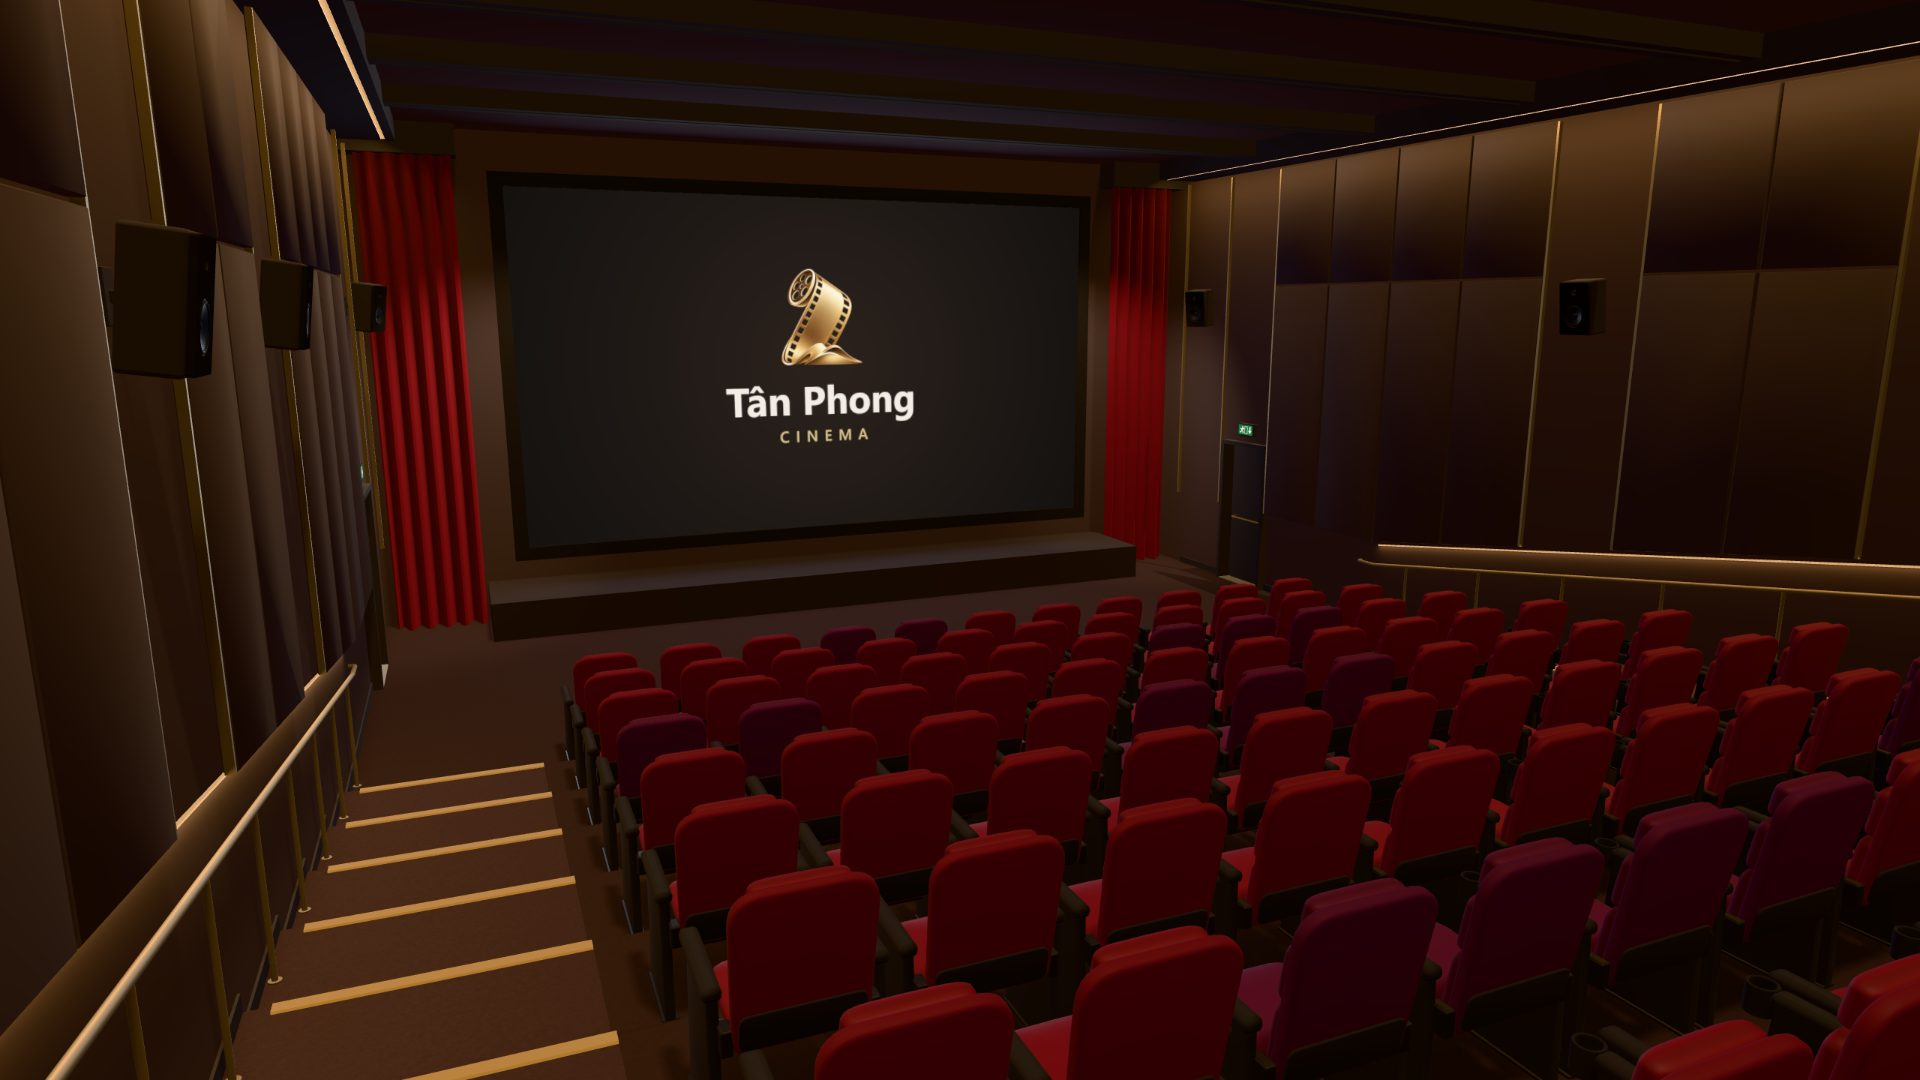
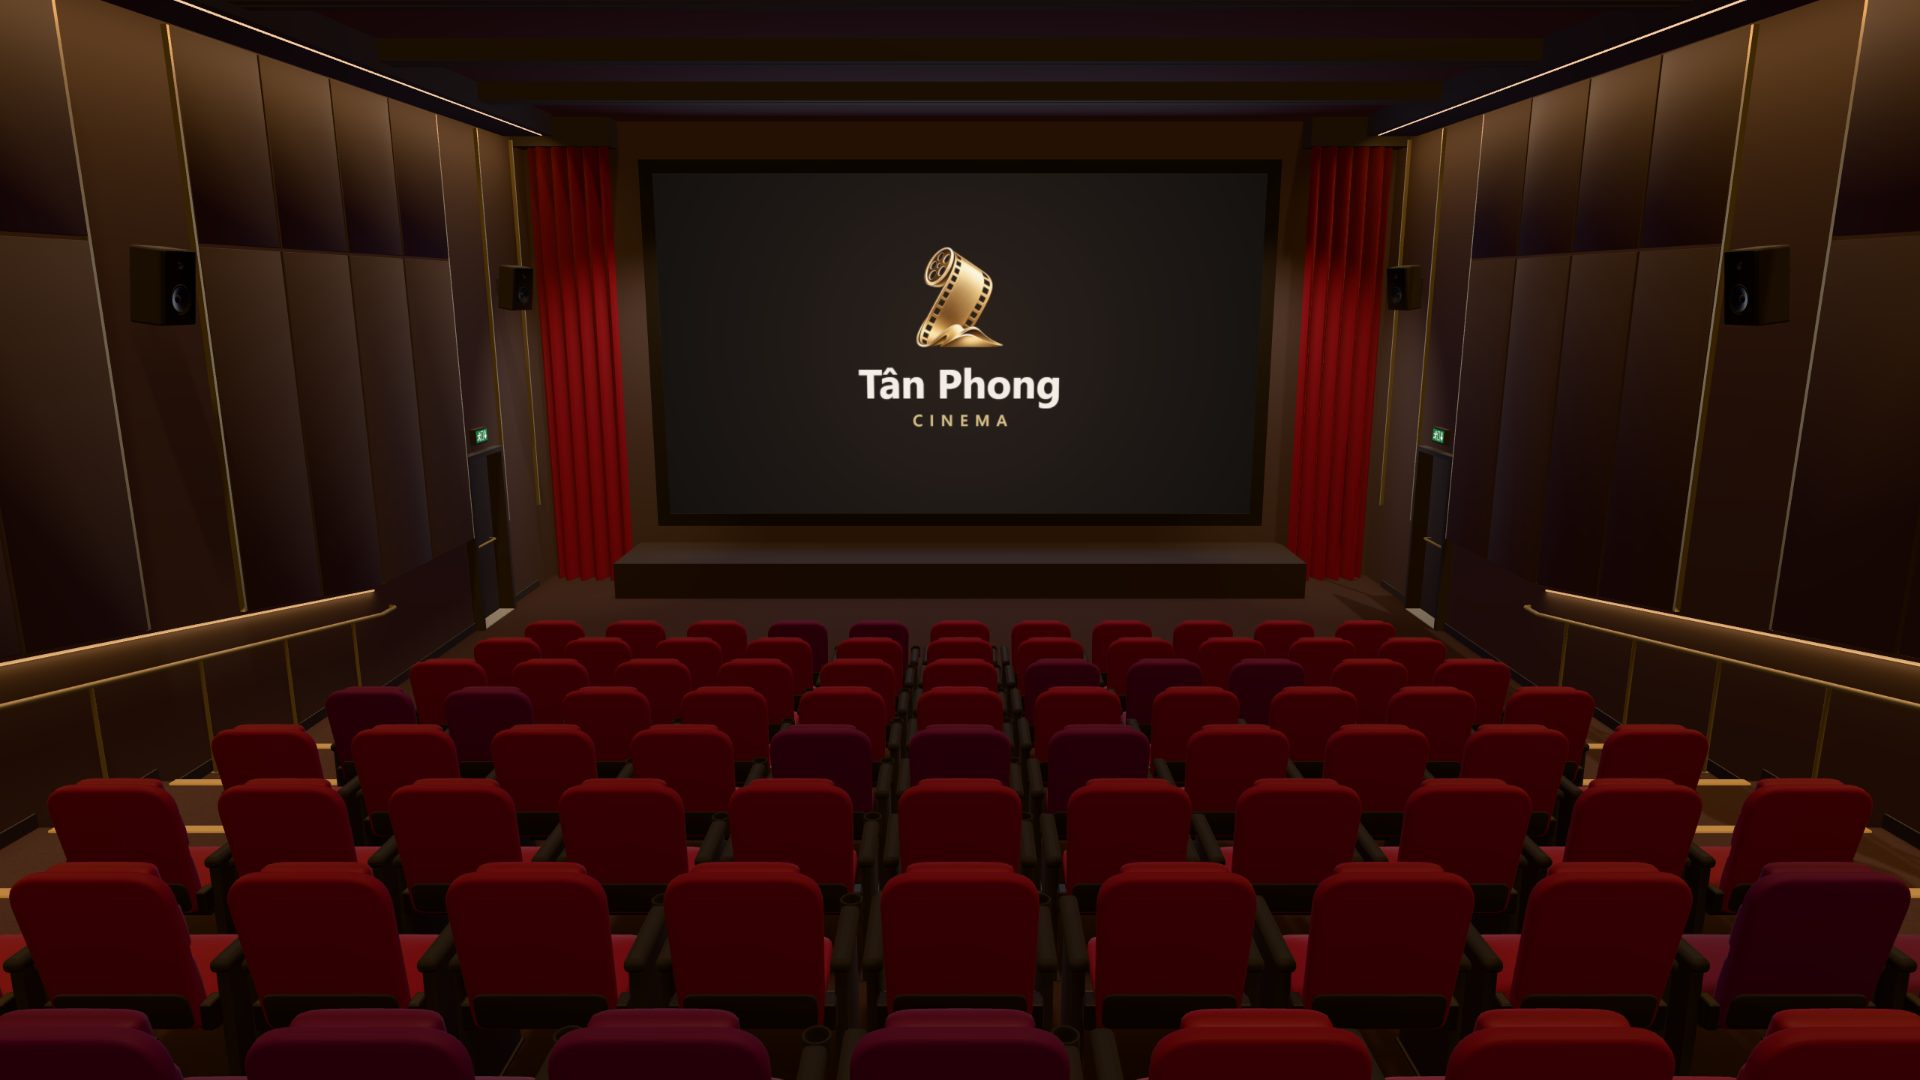
style(landing): the hero looks straight at the screen
The hero render is taken from the back of the room on its centre line,
facing the screen, instead of from the top of the left aisle across the
rows; the portrait one too. Re-rendered with capture-brand-assets.mjs
(portal-hero), and the picture's alt text follows.

diff --git a/src/landing/content.ts b/src/landing/content.ts
@@ -115,7 +115,7 @@ ${wordmarkHtml()}
 <source media="(max-aspect-ratio: 4/5)" type="image/webp" srcset="${srcset('portal-hero-portrait', heroPortrait.widths)}" sizes="100vw">
 <source media="(max-aspect-ratio: 4/5)" type="image/jpeg" srcset="${IMG}/portal-hero-portrait-900.jpg 900w" sizes="100vw">
 <source type="image/webp" srcset="${srcset('portal-hero', hero.widths)}" sizes="100vw">
-<img class="hero__image" src="${IMG}/portal-hero-1920.jpg" width="${hero.width}" height="${hero.height}" alt="Khán phòng nhìn dọc lối đi bên trái: các hàng ghế đỏ dẫn tới màn chiếu mang logo Tân Phong Cinema." fetchpriority="high" decoding="async">
+<img class="hero__image" src="${IMG}/portal-hero-1920.jpg" width="${hero.width}" height="${hero.height}" alt="Khán phòng nhìn thẳng từ cuối phòng: các hàng ghế đỏ hướng về màn chiếu mang logo Tân Phong Cinema." fetchpriority="high" decoding="async">
 </picture>
 </div>
 <div class="hero__shade" aria-hidden="true"></div>
